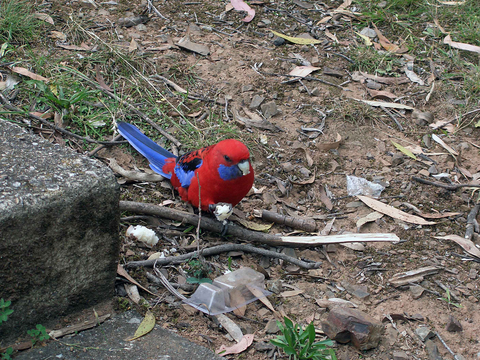
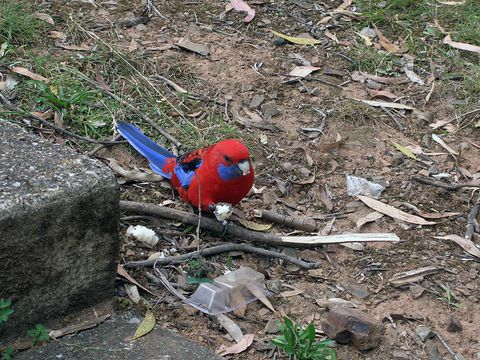
Change image quality

diff --git a/Gruntfile.js b/Gruntfile.js
@@ -16,7 +16,8 @@ module.exports = function(grunt) {
           sizes: [{
             
             name: "small",
-            width: 480
+            width: 480,
+            quality: 80
             
 
             /*
